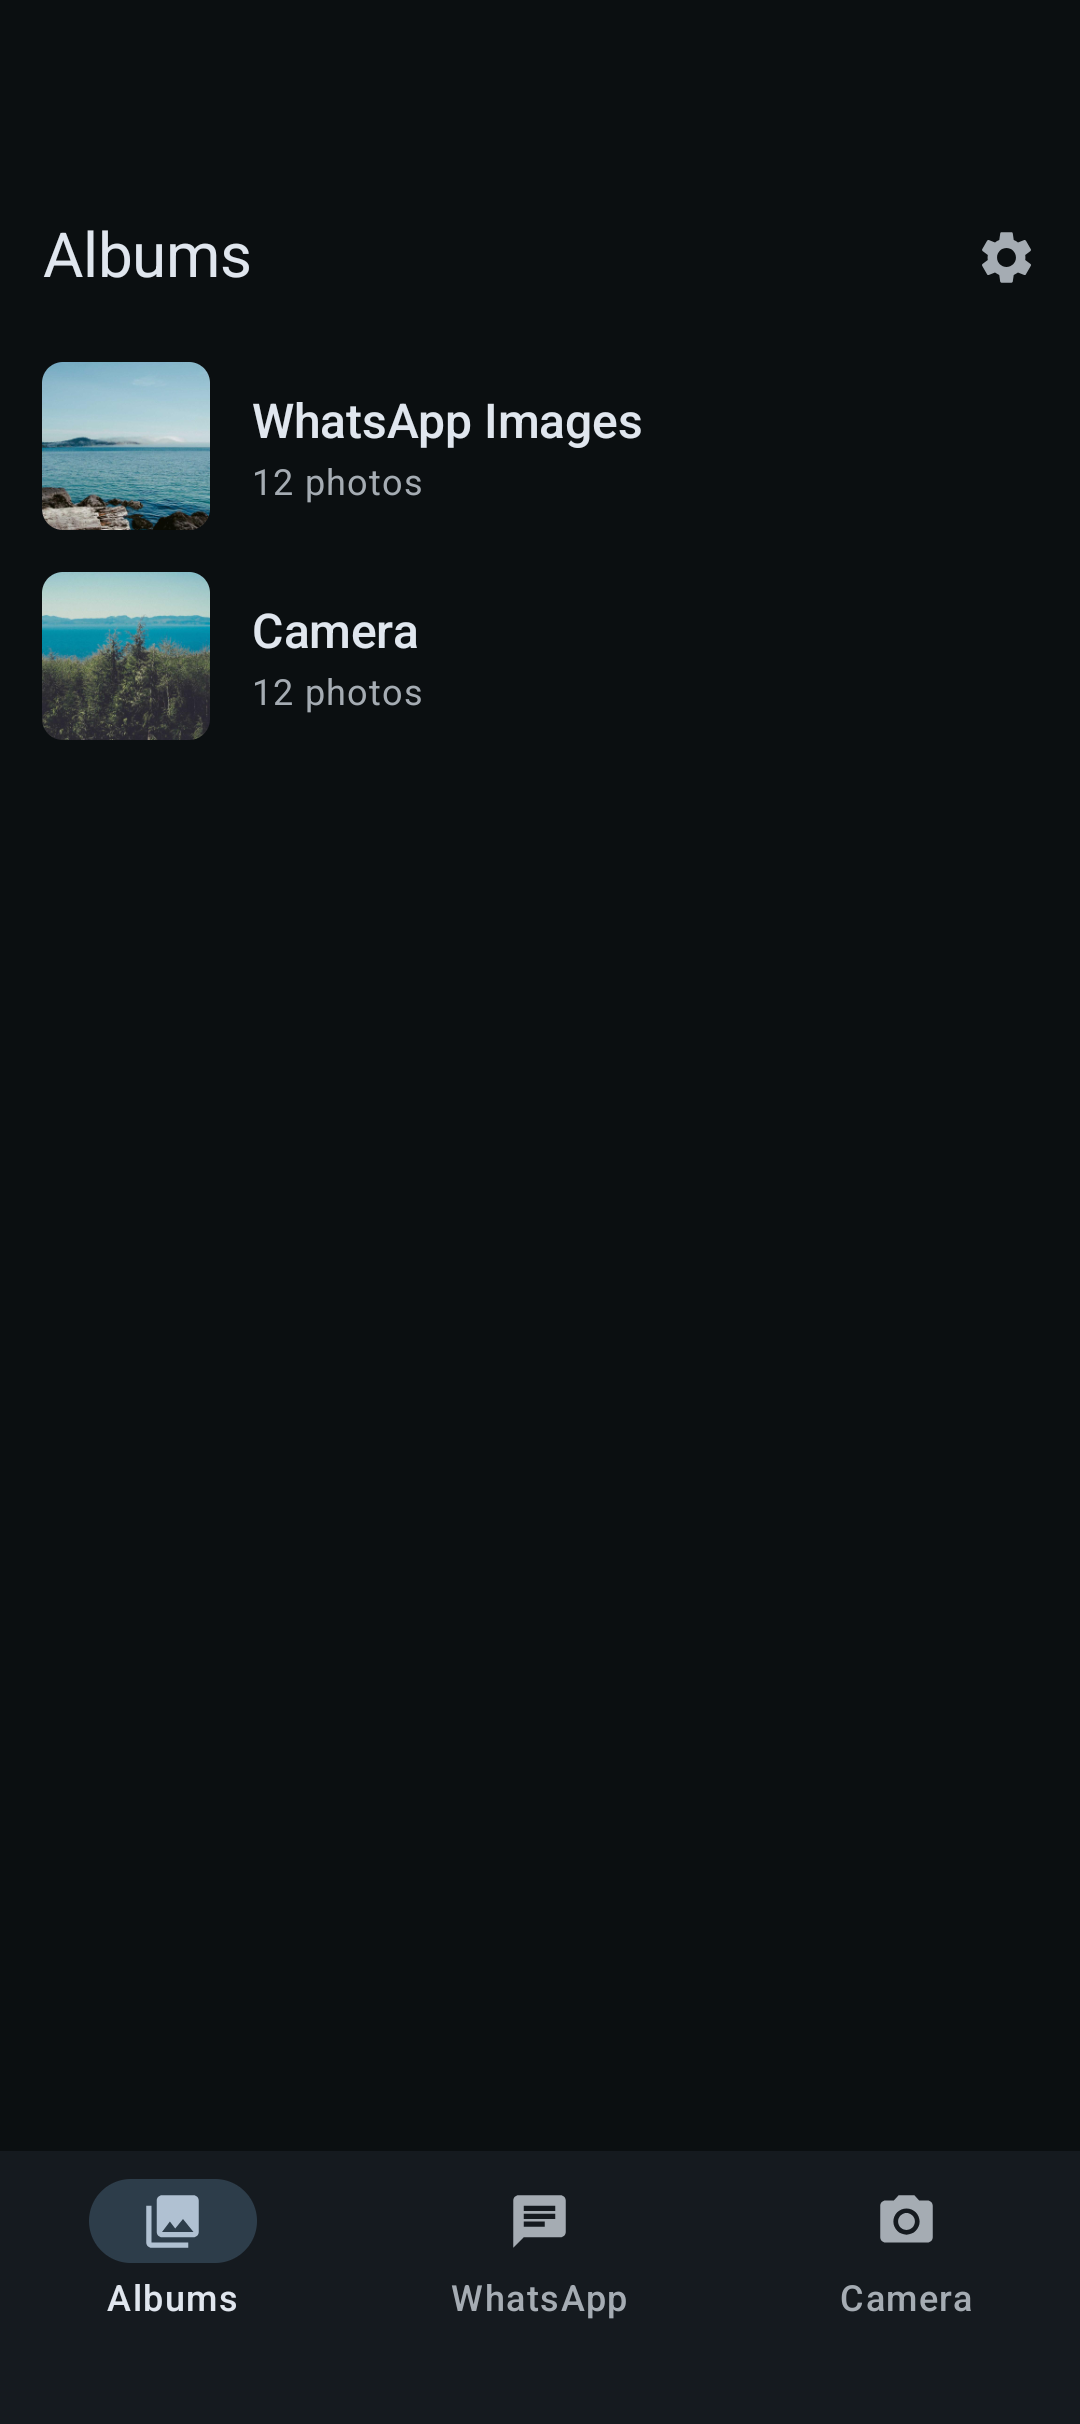
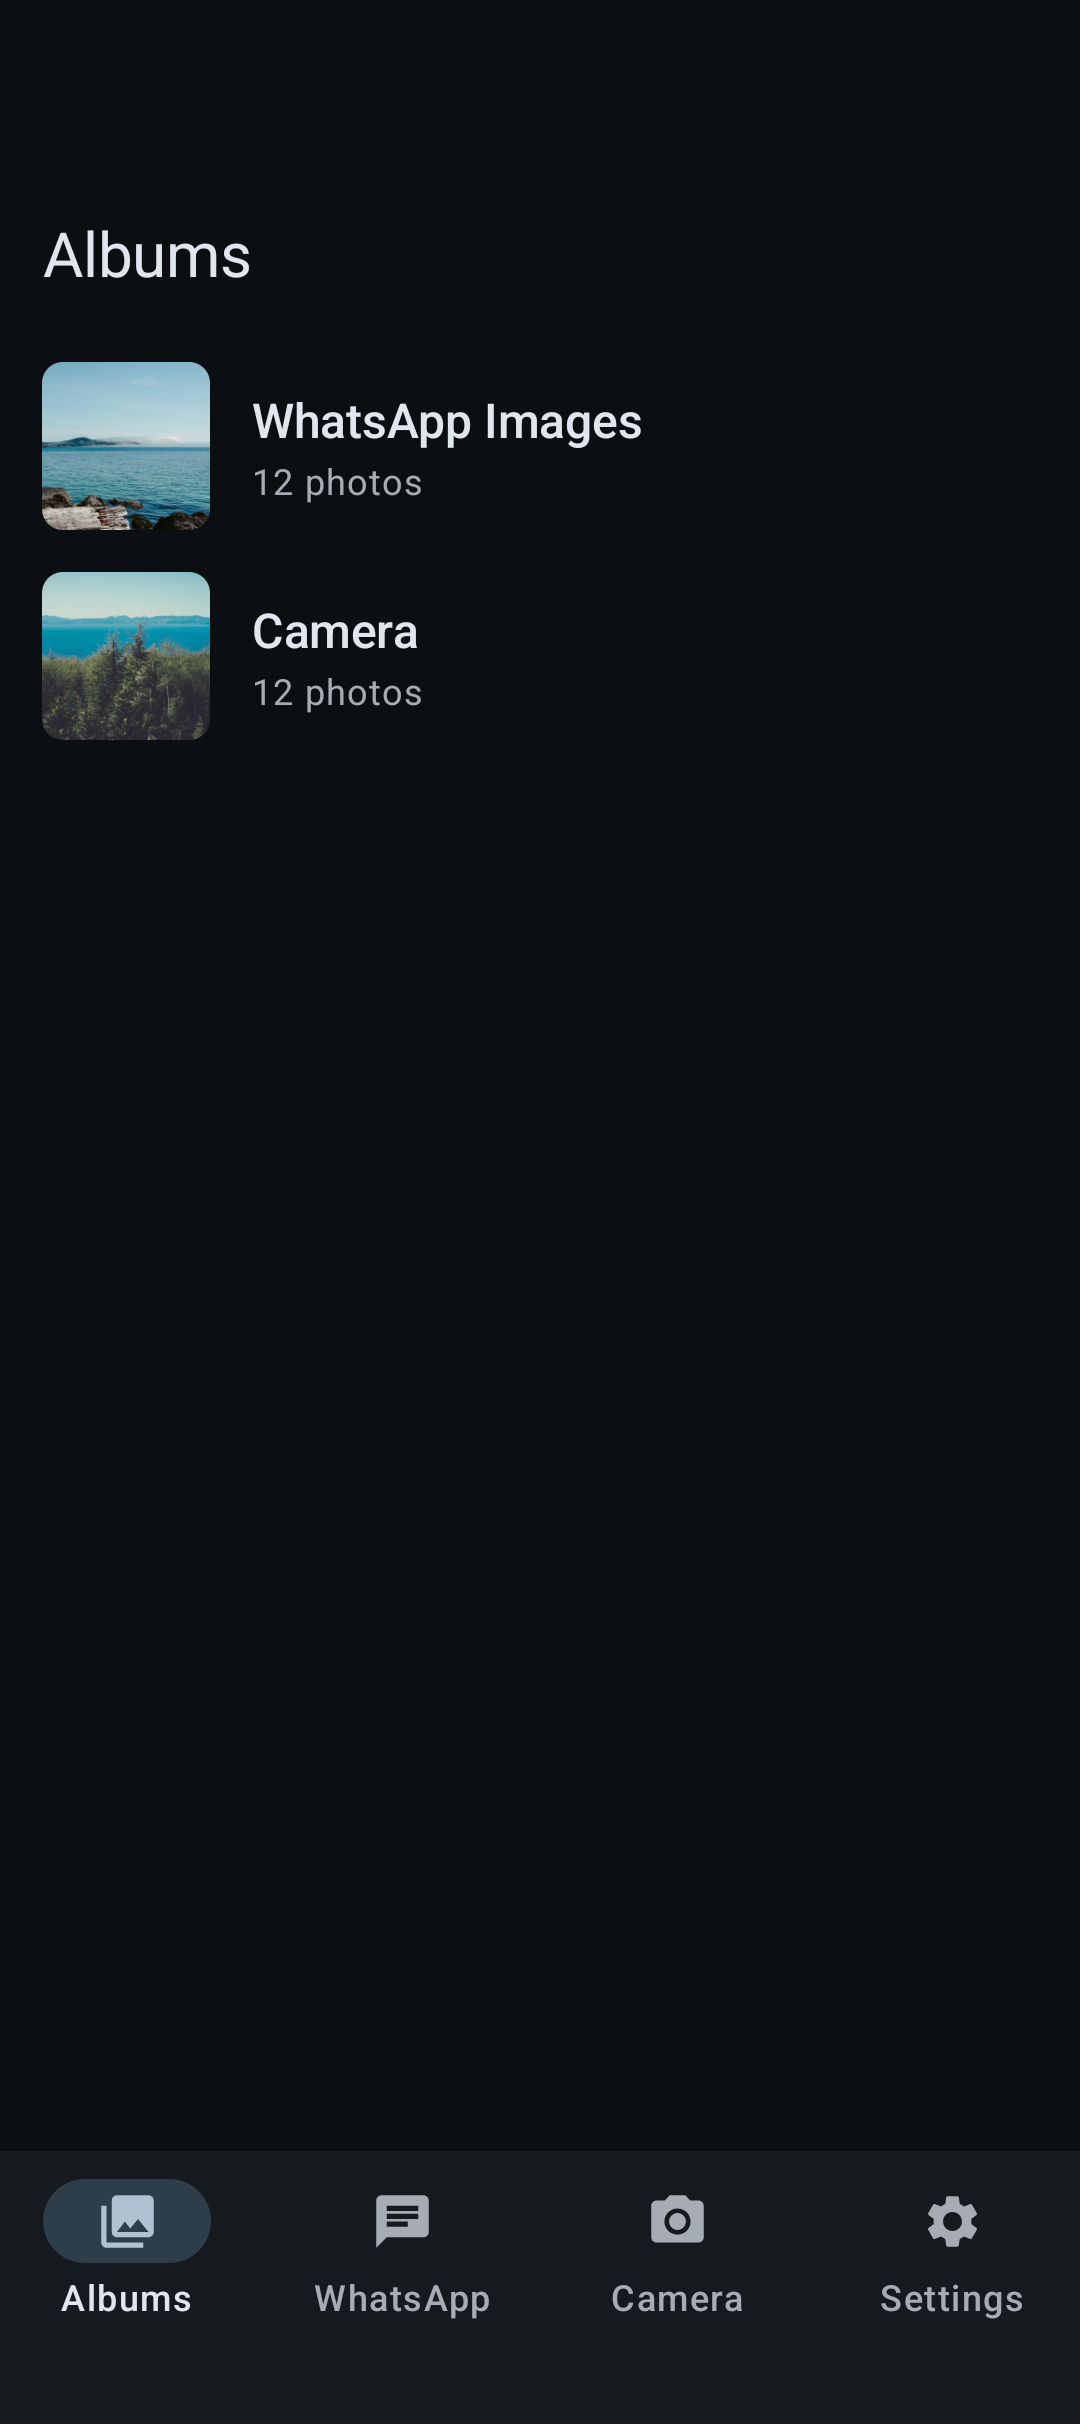
feat: add WhatsApp month and year fast scrolling
Jump through the full date index with an accessible draggable scrollbar.
Keep selection across jumps and load only the destination thumbnails.
Verify 3,006-photo navigation and refresh the credited product screenshots.

diff --git a/apps/android/src/main/java/com/photoprism/uploader/ui/grid/PhotoDateScrubber.kt b/apps/android/src/main/java/com/photoprism/uploader/ui/grid/PhotoDateScrubber.kt
@@ -1,0 +1,102 @@
+package com.photoprism.uploader.ui.grid
+
+import androidx.compose.foundation.Canvas
+import androidx.compose.foundation.gestures.detectVerticalDragGestures
+import androidx.compose.foundation.layout.*
+import androidx.compose.foundation.lazy.grid.LazyGridState
+import androidx.compose.foundation.shape.RoundedCornerShape
+import androidx.compose.material3.MaterialTheme
+import androidx.compose.material3.Surface
+import androidx.compose.material3.Text
+import androidx.compose.runtime.*
+import androidx.compose.ui.Alignment
+import androidx.compose.ui.Modifier
+import androidx.compose.ui.geometry.CornerRadius
+import androidx.compose.ui.geometry.Offset
+import androidx.compose.ui.geometry.Size
+import androidx.compose.ui.input.pointer.pointerInput
+import androidx.compose.ui.platform.testTag
+import androidx.compose.ui.semantics.*
+import androidx.compose.ui.unit.dp
+import kotlinx.coroutines.Job
+import kotlinx.coroutines.flow.first
+import kotlinx.coroutines.launch
+
+/** Uses the full date index so a drag can jump beyond the currently exposed page. */
+@Composable
+fun PhotoDateScrubber(
+    grid: LazyGridState,
+    dates: List<PhotoDatePosition>,
+    totalItems: Int,
+    onSeek: (Float) -> Int,
+    modifier: Modifier = Modifier
+) {
+    val scope = rememberCoroutineScope()
+    var seekJob by remember { mutableStateOf<Job?>(null) }
+    var dragging by remember { mutableStateOf(false) }
+    var dragFraction by remember { mutableFloatStateOf(0f) }
+    val currentSeek by rememberUpdatedState(onSeek)
+    val scrollingFraction by remember(grid, totalItems) {
+        derivedStateOf {
+            if (!grid.canScrollForward && grid.layoutInfo.totalItemsCount == totalItems) 1f
+            else grid.firstVisibleItemIndex.toFloat() / (totalItems - 1).coerceAtLeast(1)
+        }
+    }
+    val fraction = if (dragging) dragFraction else scrollingFraction
+    val currentIndex = if (dragging) (fraction * (totalItems - 1)).toInt() else grid.firstVisibleItemIndex
+    val month = dates.lastOrNull { it.gridIndex <= currentIndex }?.month.orEmpty()
+    fun seek(value: Float) {
+        dragFraction = value.coerceIn(0f, 1f)
+        val index = currentSeek(dragFraction)
+        seekJob?.cancel()
+        seekJob = scope.launch {
+            // Wait for the newly exposed batch to be laid out before asking the grid
+            // to jump; otherwise LazyGrid clamps the target to the old page boundary.
+            snapshotFlow { grid.layoutInfo.totalItemsCount }.first { it > index }
+            grid.scrollToItem(index)
+        }
+    }
+    val track = MaterialTheme.colorScheme.outlineVariant
+    val thumb = MaterialTheme.colorScheme.primary
+    BoxWithConstraints(modifier.fillMaxHeight().width(48.dp)) {
+        if (dragging) {
+            Surface(
+                color = MaterialTheme.colorScheme.inverseSurface,
+                contentColor = MaterialTheme.colorScheme.inverseOnSurface,
+                shape = RoundedCornerShape(8.dp),
+                modifier = Modifier.align(Alignment.TopEnd).offset(x = (-44).dp,
+                    y = ((maxHeight - 64.dp) * fraction).coerceAtLeast(0.dp))
+                    .wrapContentWidth(unbounded = true, align = Alignment.End)
+                    .testTag("scroll-date")
+            ) {
+                Text(month, Modifier.padding(horizontal = 16.dp, vertical = 12.dp), maxLines = 1)
+            }
+        }
+        Canvas(Modifier.fillMaxSize().testTag("date-scrubber")
+            .semantics {
+                contentDescription = "Scroll photos by date"
+                stateDescription = month
+                progressBarRangeInfo = ProgressBarRangeInfo(fraction, 0f..1f)
+                setProgress { value -> seek(value); true }
+            }
+            .pointerInput(Unit) {
+                fun fractionAt(y: Float): Float {
+                    val inset = 24.dp.toPx()
+                    return ((y - inset) / (size.height - 2 * inset).coerceAtLeast(1f)).coerceIn(0f, 1f)
+                }
+                detectVerticalDragGestures(
+                    onDragStart = { dragging = true; seek(fractionAt(it.y)) },
+                    onDragEnd = { dragging = false },
+                    onDragCancel = { dragging = false },
+                    onVerticalDrag = { change, _ -> change.consume(); seek(fractionAt(change.position.y)) }
+                )
+            }) {
+            val inset = 24.dp.toPx()
+            val centerX = size.width - 16.dp.toPx()
+            val centerY = inset + fraction * (size.height - 2 * inset).coerceAtLeast(0f)
+            drawLine(track, Offset(centerX, inset), Offset(centerX, size.height - inset), 2.dp.toPx())
+            drawRoundRect(thumb, Offset(centerX - 5.dp.toPx(), centerY - inset),
+                Size(10.dp.toPx(), 48.dp.toPx()), CornerRadius(5.dp.toPx()))
+        }
+    }
+}

diff --git a/apps/android/src/main/java/com/photoprism/uploader/ui/grid/AlbumGridScreen.kt b/apps/android/src/main/java/com/photoprism/uploader/ui/grid/AlbumGridScreen.kt
@@ -203,34 +203,43 @@ fun AlbumGridScreen(
                             }
                         }
 
-                        LazyVerticalGrid(
-                            columns = GridCells.Fixed(3),
-                            state = gridState,
-                            modifier = Modifier.fillMaxSize().testTag("photo-grid")
-                        ) {
-                            uiState.groups.forEach { group ->
-                                item(key = "date:${group.label}", contentType = "date", span = { GridItemSpan(maxLineSpan) }) {
-                                    Text(
-                                        text = group.label,
-                                        style = MaterialTheme.typography.titleMedium,
-                                        modifier = Modifier.padding(horizontal = 16.dp, vertical = 12.dp)
-                                    )
-                                }
-                                items(group.images, key = { it.id }, contentType = { "photo" }) { image ->
-                                    val isSynced = image.uploadKey in uiState.syncedImageKeys
-                                    ImageTile(
-                                        image = image,
-                                        isSelected = image.id in uiState.selectedImages,
-                                        isSynced = !browseOnly && isSynced,
-                                        onClick = { if (browseOnly) onImageClick(image) else viewModel.toggleSelection(image) },
-                                        onDoubleClick = { onImageClick(image) },
-                                        onLongClick = {
-                                            if (!browseOnly && isSynced) {
-                                                viewModel.showUnmarkConfirmation(image)
+                        Box(Modifier.fillMaxSize()) {
+                            LazyVerticalGrid(
+                                columns = GridCells.Fixed(3),
+                                state = gridState,
+                                modifier = Modifier.fillMaxSize()
+                                    .padding(end = if (bucketId == "__whatsapp" && uiState.totalImages > 90) 48.dp else 0.dp)
+                                    .testTag("photo-grid")
+                            ) {
+                                uiState.groups.forEach { group ->
+                                    item(key = "date:${group.label}", contentType = "date", span = { GridItemSpan(maxLineSpan) }) {
+                                        Text(
+                                            text = group.label,
+                                            style = MaterialTheme.typography.titleMedium,
+                                            modifier = Modifier.padding(horizontal = 16.dp, vertical = 12.dp)
+                                        )
+                                    }
+                                    items(group.images, key = { it.id }, contentType = { "photo" }) { image ->
+                                        val isSynced = image.uploadKey in uiState.syncedImageKeys
+                                        ImageTile(
+                                            image = image,
+                                            isSelected = image.id in uiState.selectedImages,
+                                            isSynced = !browseOnly && isSynced,
+                                            onClick = { if (browseOnly) onImageClick(image) else viewModel.toggleSelection(image) },
+                                            onDoubleClick = { onImageClick(image) },
+                                            onLongClick = {
+                                                if (!browseOnly && isSynced) {
+                                                    viewModel.showUnmarkConfirmation(image)
+                                                }
                                             }
-                                        }
-                                    )
+                                        )
+                                    }
                                 }
+                            }
+                            if (bucketId == "__whatsapp" && uiState.totalImages > 90) {
+                                PhotoDateScrubber(gridState, uiState.datePositions, uiState.totalGridItems,
+                                    onSeek = viewModel::revealScrollTarget,
+                                    modifier = Modifier.align(Alignment.CenterEnd))
                             }
                         }
                     }

diff --git a/apps/android/src/androidTest/java/com/photoprism/uploader/lab/WhatsAppPagingTest.kt b/apps/android/src/androidTest/java/com/photoprism/uploader/lab/WhatsAppPagingTest.kt
@@ -1,6 +1,13 @@
 package com.photoprism.uploader.lab
 
 import androidx.compose.ui.test.*
+import androidx.compose.ui.geometry.Offset
+import androidx.compose.ui.platform.LocalView
+import androidx.compose.runtime.DisposableEffect
+import androidx.compose.ui.graphics.asAndroidBitmap
+import android.graphics.Bitmap
+import androidx.compose.ui.semantics.SemanticsActions
+import androidx.compose.ui.semantics.SemanticsProperties
 import androidx.compose.ui.test.junit4.createComposeRule
 import androidx.test.platform.app.InstrumentationRegistry
 import com.photoprism.uploader.di.AppModule
@@ -36,6 +43,11 @@ class WhatsAppPagingTest {
             val model = AlbumGridViewModel(app.imageRepository, app.syncOrchestrator, app.settingsDataStore, app.uploadedItemsDao)
             val started = System.nanoTime()
             compose.setContent {
+                val view = LocalView.current
+                DisposableEffect(view) {
+                    view.keepScreenOn = true
+                    onDispose { view.keepScreenOn = false }
+                }
                 PhotoPrismUploaderTheme {
                     AlbumGridScreen("__whatsapp", "WhatsApp Images", model, {}, {}, showBack = false)
                 }
@@ -58,7 +70,35 @@ class WhatsAppPagingTest {
             assertEquals(count, model.uiState.value.selectedImages.size)
             compose.runOnIdle { model.clearSelection() }
             assertTrue(model.uiState.value.selectedImages.isEmpty())
-            compose.runOnIdle { while (model.uiState.value.hasMore) model.loadMore() }
+            compose.runOnIdle { model.toggleSelection(first) }
+            // Jump past unexposed pages using the accessible scrubber action.
+            compose.onNodeWithTag("date-scrubber").performSemanticsAction(SemanticsActions.SetProgress) { it(0.5f) }
+            compose.waitUntil(10000) { model.uiState.value.images.size > count / 2 }
+            compose.waitUntil(10000) {
+                compose.onNodeWithTag("date-scrubber").fetchSemanticsNode().config[SemanticsProperties.StateDescription] == "April 2026"
+            }
+            // A held drag reaches the oldest month and displays a month/year bubble.
+            compose.onNodeWithTag("date-scrubber").performTouchInput {
+                down(center)
+                moveTo(Offset(center.x, height.toFloat() - 1), delayMillis = 500)
+            }
+            compose.waitUntil(10000) { !model.uiState.value.hasMore }
+            compose.onNodeWithTag("scroll-date").assertIsDisplayed()
+            if (InstrumentationRegistry.getArguments().getString("capturePaging") == "true") {
+                val output = File(context.filesDir, "screenshots/paging.png").also { it.parentFile!!.mkdirs() }
+                output.outputStream().use {
+                    compose.onRoot().captureToImage().asAndroidBitmap().compress(Bitmap.CompressFormat.PNG, 100, it)
+                }
+            }
+            compose.onNodeWithTag("date-scrubber").performTouchInput { up() }
+            compose.waitUntil(10000) {
+                compose.onNodeWithTag("date-scrubber").fetchSemanticsNode().config[SemanticsProperties.StateDescription] == "November 2025"
+            }
+            compose.onNodeWithTag("date-scrubber").performSemanticsAction(SemanticsActions.SetProgress) { it(0f) }
+            compose.waitUntil(10000) {
+                compose.onNodeWithTag("date-scrubber").fetchSemanticsNode().config[SemanticsProperties.ProgressBarRangeInfo].current == 0f
+            }
+            assertEquals(setOf(first.id), model.uiState.value.selectedImages)
             assertEquals(count, model.uiState.value.images.map { it.id }.toSet().size)
             val dates = model.uiState.value.groups.map { it.timestamp }
             assertEquals(dates.sortedDescending(), dates)

diff --git a/apps/android/src/main/java/com/photoprism/uploader/ui/grid/AlbumGridViewModel.kt b/apps/android/src/main/java/com/photoprism/uploader/ui/grid/AlbumGridViewModel.kt
@@ -50,6 +50,7 @@ class AlbumGridViewModel(
     private var loadingBucket: String? = null
     private var allImages: List<MediaImage> = emptyList()
     private var allGroups: List<ImageDateGroup> = emptyList()
+    private var datePositions: List<PhotoDatePosition> = emptyList()
     private var visibleCount = 0
     private val pageSize = 90
 
@@ -72,6 +73,14 @@ class AlbumGridViewModel(
                 }
                 allImages = sorted
                 allGroups = groups
+                datePositions = withContext(Dispatchers.Default) {
+                    val month = SimpleDateFormat("MMMM yyyy", Locale.getDefault())
+                    var photoIndex = 0
+                    groups.mapIndexed { groupIndex, group ->
+                        PhotoDatePosition(photoIndex + groupIndex, photoIndex, month.format(Date(group.timestamp * 1000)))
+                            .also { photoIndex += group.images.size }
+                    }
+                }
                 loadedBucket = bucketId
                 visibleCount = if (bucketId == "__whatsapp") minOf(pageSize, sorted.size) else sorted.size
                 publishImages()
@@ -91,6 +100,17 @@ class AlbumGridViewModel(
         publishImages()
     }
 
+    /** Reveal metadata through the target without decoding intervening thumbnails. */
+    fun revealScrollTarget(fraction: Float): Int {
+        if (allImages.isEmpty()) return 0
+        val index = (fraction.coerceIn(0f, 1f) * (allImages.size + allGroups.size - 1)).toInt()
+        val position = datePositions.last { it.gridIndex <= index }
+        val photoIndex = position.photoIndex + (index - position.gridIndex - 1).coerceAtLeast(0)
+        visibleCount = maxOf(visibleCount, minOf(photoIndex + pageSize, allImages.size))
+        publishImages()
+        return index
+    }
+
     private fun publishImages() {
         var remaining = visibleCount
         val groups = allGroups.mapNotNull { group ->
@@ -102,7 +122,8 @@ class AlbumGridViewModel(
         }
         _uiState.value = _uiState.value.copy(
             images = allImages.take(visibleCount), groups = groups, totalImages = allImages.size,
-            hasMore = visibleCount < allImages.size, isLoading = false
+            hasMore = visibleCount < allImages.size, isLoading = false,
+            datePositions = datePositions, totalGridItems = allImages.size + allGroups.size
         )
     }
 
@@ -177,6 +198,8 @@ class AlbumGridViewModel(
     }
 }
 
+data class PhotoDatePosition(val gridIndex: Int, val photoIndex: Int, val month: String)
+
 data class ImageDateGroup(val label: String, val timestamp: Long, val images: List<MediaImage>)
 
 data class AlbumGridUiState(
@@ -184,6 +207,8 @@ data class AlbumGridUiState(
     val images: List<MediaImage> = emptyList(),
     val groups: List<ImageDateGroup> = emptyList(),
     val totalImages: Int = 0,
+    val totalGridItems: Int = 0,
+    val datePositions: List<PhotoDatePosition> = emptyList(),
     val hasMore: Boolean = false,
     val selectedImages: Set<Long> = emptySet(),
     val syncedImageKeys: Set<String> = emptySet(),

diff --git a/apps/android/README.md b/apps/android/README.md
@@ -32,7 +32,10 @@ The WhatsApp tab queries matching MediaStore buckets directly. It reads lightwei
 metadata once, then parses dates, sorts and groups on a background dispatcher. The
 grid exposes 90 photos at a time and prefetches the next batch near the end; Coil
 loads thumbnails only for composed tiles. Selection and uploads use the full metadata
-index, so **Select All** includes photos beyond the visible batches.
+index, so **Select All** includes photos beyond the visible batches. The date scrubber
+maps the full index to grid positions (including day headers), exposes metadata
+through the target, then waits for layout before scrolling. It never decodes all
+the photos between the old and new positions.
 
 ## Updates and tests
 

diff --git a/README.md b/README.md
@@ -34,6 +34,8 @@ under the [Unsplash License](https://unsplash.com/license).
 
 Tap photos to select them, then choose **Sync now**. Green checkmarks show upload
 history; selected photos have a separate highlight. Double-tap to view and zoom.
+Photos load progressively as you scroll. In larger libraries, drag the right-edge
+scrollbar to jump through photos by month and year.
 
 **Photo swipe** lets you review pictures individually: swipe right to queue an
 upload, left to ignore without deleting, and undo your last ignore. Progress persists.
